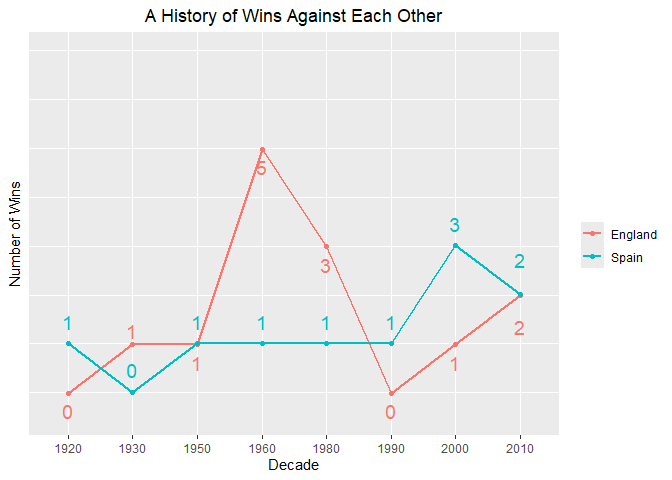
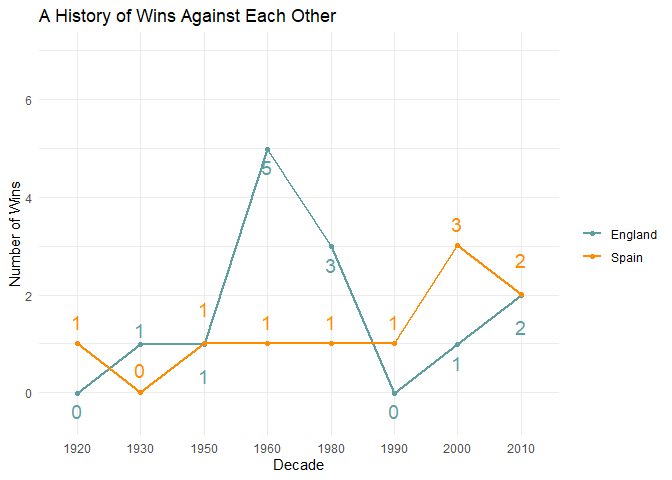
upload final report

diff --git a/Spain_vs_England.md b/Spain_vs_England.md
@@ -177,6 +177,10 @@ The history of wins illustrates this.
 <summary>Code</summary>
 
 ``` r
+# Change "azure2"-color value of line chart for better visibility
+line_color_values <- c("darkorange", "darkgrey", "cadetblue")
+names(line_color_values) <- c(my_teams[[1, 2]], "Draw", my_teams[[2, 2]])
+
 plot_data %>%
   filter(winner != "Draw") %>% 
   ggplot(aes(x = decade,
@@ -200,7 +204,9 @@ plot_data %>%
   theme(plot.title = element_text(hjust = 0.5),
         plot.subtitle = element_text(hjust = 0.5),
         axis.text.y = element_blank(),
-        axis.ticks.y = element_blank())
+        axis.ticks.y = element_blank()) +
+  scale_color_manual(values = line_color_values) +
+  theme_minimal()
 ```
 
 </details>
@@ -317,9 +323,7 @@ euro_2024_matches_pivoted_joined_goal_summary %>%
 | England |              6 |            6 |              4 |
 | Spain   |              6 |           12 |              3 |
 
-France only managed to score three goals, with one penalty and two own
-goals. Let’s put this poor performance in visual relation to all other
-teams.
+Let’s put this performance in visual relation to all other teams.
 
 <details>
 <summary>Code</summary>
